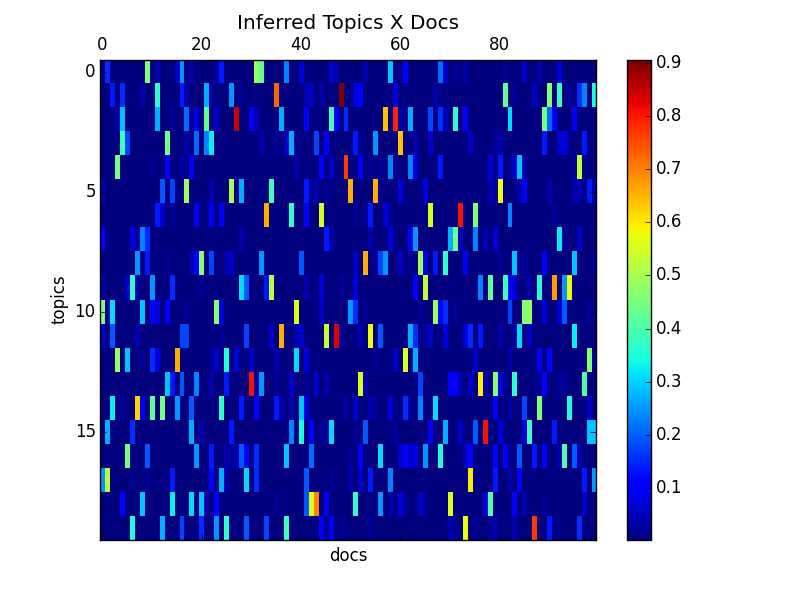
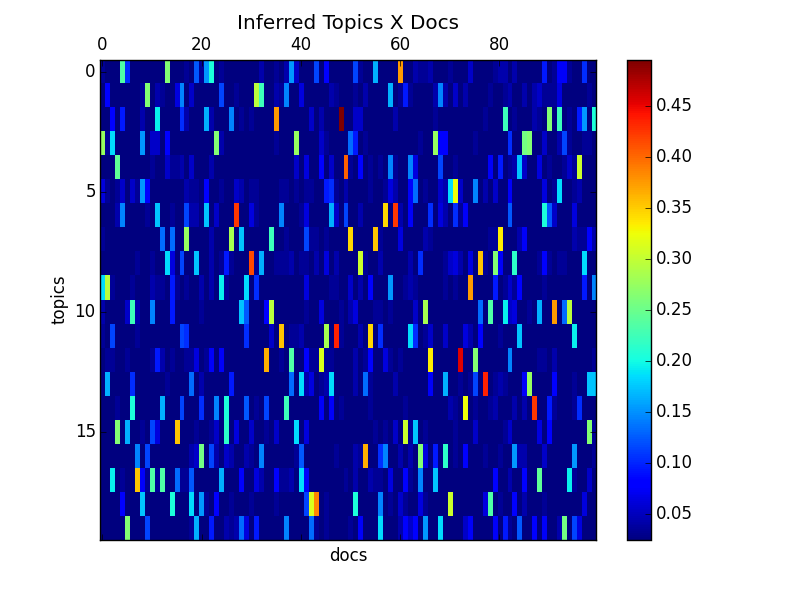
speed up 3-bags gibbs sampling but uses a lot more memory
Former-commit-id: 4a14c4eaa3062f62da91a8d8946438c67038bdd4
Former-commit-id: 50059df0ebb4e841551664c258635051c4e41c4c

diff --git a/lda_3bags_cgs_numba.py b/lda_3bags_cgs_numba.py
@@ -38,52 +38,58 @@ def sample_numba(random_state, n_burn, n_samples, n_thin,
     # transfer the counts from the bags to the structured arrays
     _populate_count_matrices(bags, ckn, ck, previous_ckn, previous_ck)    
     
-    # loop over samples
-    for samp in range(n_samples):
+    # prepare the input matrices
+    print "Preparing words"
+    all_d = []
+    all_pos = []
+    all_n = []
+    total_words = 0
+    max_pos = 0
+    for d in range(D):
+        word_locs = document_indices[d]
+        for pos, n in word_locs:
+            total_words += 1
+            all_d.append(d)
+            all_pos.append(pos)
+            all_n.append(n)
+            if pos > max_pos:
+                max_pos = pos
+    all_d = np.array(all_d, dtype=np.int64)
+    all_pos = np.array(all_pos, dtype=np.int64)
+    all_n = np.array(all_n, dtype=np.int64)
+    vocab_type = np.array(vocab_type, dtype=np.int)
     
+    print "Preparing Z matrix"    
+    Z_mat = np.empty((D, max_pos+1), dtype=np.int64)
+    for d in range(D):
+        word_locs = document_indices[d]
+        for pos, n in word_locs:
+            k = Z[(d, pos)]
+            Z_mat[d, pos] = k
+
+    print "Preparing random matrix for total_words " + str(total_words)    
+    all_random = np.empty((n_samples, total_words), dtype=np.double)
+    for samp in range(n_samples):
+        all_random[samp, :] = random_state.rand(total_words)
+    
+    print "DONE"
+
+    # lls_count should be replaced by a single formula!
+    lls_count = 0    
+    for samp in range(n_samples):
         s = samp+1        
-        if s >= n_burn:
-            print("Sample " + str(s) + " "),
-        else:
-            print("Burn-in " + str(s) + " "),
-
-        # loop over documents
-        for d in range(D):
-
-            if d%10==0:                        
-                sys.stdout.write('.')
-                sys.stdout.flush()
-
-            # loop over words, not so easy to JIT due to rng and Z
-            word_locs = document_indices[d]
-            for pos, n in word_locs:
-                random_number = random_state.rand()                
-                k = Z[(d, pos)]         
-                b = vocab_type[n]   
-                k = _nb_get_new_index(d, n, k, cdk, cd, 
-                                      N, K, previous_K, alpha, beta, 
-                                      N_beta, K_alpha,
-                                      post, cumsum, random_number, b,
-                                      ckn, ck, previous_ckn, previous_ck)
-                Z[(d, pos)] = k
-
         if s > n_burn:
-        
             thin += 1
             if thin%n_thin==0:    
+                lls_count += 1
 
-                ll = _nb_p_w_z(N, K, beta[0], ckn['bag1'], ck['bag1'])
-                ll += _nb_p_w_z(N, K, beta[1], ckn['bag2'], ck['bag2'])
-                ll += _nb_p_w_z(N, K, beta[2], ckn['bag3'], ck['bag3'])                
-                ll += _nb_p_z(D, K, alpha, cdk, cd)                  
-                all_lls.append(ll)      
-                print(" Log joint likelihood = %.3f " % ll)                        
-            
-            else:                
-                print
-        
-        else:
-            print
+    all_lls = np.zeros(lls_count)
+    _nb_do_sampling(n_samples, n_burn, n_thin, total_words, all_d, all_pos, all_n, all_random, Z_mat, all_lls, vocab_type,
+                      cdk, cd, 
+                      D, N, K, previous_K, alpha, beta, 
+                      N_beta, K_alpha,                      
+                      post, cumsum,
+                      ckn, ck, previous_ckn, previous_ck)
             
     # update phi
     phi1 = ckn['bag1'] + beta[0]
@@ -241,3 +247,62 @@ def _nb_p_z(D, K, alpha, cdk, cd):
             ll += math.lgamma(cdk[d, k]+alpha)
         ll -= math.lgamma(cd[d] + K*alpha)
     return ll
+  
+# @jit(int64(int64, int64, int64, int64, int64[:], int64[:], int64[:], float64[:, :], int64[:, :], int64[:], int64[:],
+#            int64[:, :], int64[:], 
+#            int64, int64, int64, int64, float64, float64[:],
+#            float64[:], float64,
+#            float64[:], float64[:],
+#            numba_bag_of_word_dtype[:, :], numba_bag_of_word_dtype[:], numba_bag_of_word_dtype[:, :], numba_bag_of_word_dtype[:]
+# ), nopython=True)   
+@jit(nopython=True)   
+def _nb_do_sampling(n_samples, n_burn, n_thin, total_words, all_d, all_pos, all_n, all_random, Z_mat, all_lls, vocab_type,
+                      cdk, cd, 
+                      D, N, K, previous_K, alpha, beta, 
+                      N_beta, K_alpha,                      
+                      post, cumsum,
+                      ckn, ck, previous_ckn, previous_ck):
+    
+    counter = 0
+    thin = 0
+    
+    # loop over samples
+    for samp in range(n_samples):
+    
+        # loop over documents and all words in the document
+        for w in range(total_words):
+            
+            d = all_d[w]
+            pos = all_pos[w]
+            n = all_n[w]
+            random_number = all_random[samp, w]
+        
+            # assign new k
+            k = Z_mat[d, pos]         
+            b = vocab_type[n]   
+            k = _nb_get_new_index(d, n, k, cdk, cd, 
+                                  N, K, previous_K, alpha, beta, 
+                                  N_beta, K_alpha,
+                                  post, cumsum, random_number, b,
+                                  ckn, ck, previous_ckn, previous_ck)
+            Z_mat[d, pos] = k
+
+        s = samp+1        
+        if s > n_burn:
+        
+            thin += 1
+            if thin%n_thin==0:    
+
+                ll = _nb_p_w_z(N, K, beta[0], ckn.bag1, ck.bag1)
+                ll += _nb_p_w_z(N, K, beta[1], ckn.bag2, ck.bag2)
+                ll += _nb_p_w_z(N, K, beta[2], ckn.bag3, ck.bag3)                
+                ll += _nb_p_z(D, K, alpha, cdk, cd)                  
+                all_lls[counter] = ll   
+                counter += 1   
+                print(ll)                        
+            
+            else:                
+                print
+        
+        else:
+            print    

diff --git a/three_bags_lda_for_fragments.py b/three_bags_lda_for_fragments.py
@@ -5,11 +5,12 @@ from pandas.core.frame import DataFrame
 from scipy.sparse import coo_matrix
 
 from lda_for_fragments import Ms2Lda
-from lda_nbags_cgs import CollapseGibbs_nbags_Lda, print_topic_words
+from lda_nbags_cgs import CollapseGibbs_nbags_Lda
 import numpy as np
 import pandas as pd
 import pylab as plt
 from visualisation.pylab.three_bags_lda_for_fragments_viz import ThreeBags_Ms2Lda_Viz
+
 
 class ThreeBags_Ms2Lda(Ms2Lda):
     
@@ -67,7 +68,7 @@ class ThreeBags_Ms2Lda(Ms2Lda):
         print "DONE. Time=" + str(stop-start)        
         plt.plot(self.model.loglikelihoods_)
         plt.show()
-        print_topic_words(self.model.topic_word_, self.model.n_bags, 20, n_topics, vocab, self.EPSILON)      
+        # print_topic_words(self.model.topic_word_, self.model.n_bags, 20, n_topics, vocab, self.EPSILON)      
                 
     def write_results(self, results_prefix):
 
@@ -189,8 +190,8 @@ def test_lda():
     n_samples = 100
     n_burn = 0
     n_thin = 1
-    alpha = 0.1
-    beta = 0.01
+    alpha = 50.0/n_topics
+    beta = 0.1
 
     relative_intensity = True
     fragment_filename = 'input/relative_intensities/Beer_3_T10_POS_fragments_rel.csv'

diff --git a/visualisation/pylab/three_bags_lda_for_fragments_viz.py b/visualisation/pylab/three_bags_lda_for_fragments_viz.py
@@ -52,8 +52,9 @@ class ThreeBags_Ms2Lda_Viz(object):
     def _get_words_for_plot(self, k, topicdfs, bag_idx):
         
         # argsort topic-words for fragments in descending order by p(w|d)
-        word_dist = self.topicdfs[0].transpose().iloc[[k]].as_matrix().flatten()                          
-        column_values = np.array(self.topicdfs[0].transpose().columns.values)    
+        topicdf_bag = self.topicdfs[bag_idx]
+        word_dist = topicdf_bag.transpose().iloc[[k]].as_matrix().flatten()                          
+        column_values = np.array(topicdf_bag.transpose().columns.values)    
         idx = np.argsort(word_dist)[::-1] 
         topic_w = np.array(column_values)[idx]
         topic_p = np.array(word_dist)[idx]    

diff --git a/lda_nbags_cgs.py b/lda_nbags_cgs.py
@@ -263,8 +263,8 @@ def main():
     vocab_size = 200 * multiplier
     document_length = 50 * multiplier
 
-    alpha = 0.1
-    beta = 0.01    
+    alpha = 50.0/n_topics
+    beta = 0.1
     n_samples = 200
     n_burn = 0
     n_thin = 1
